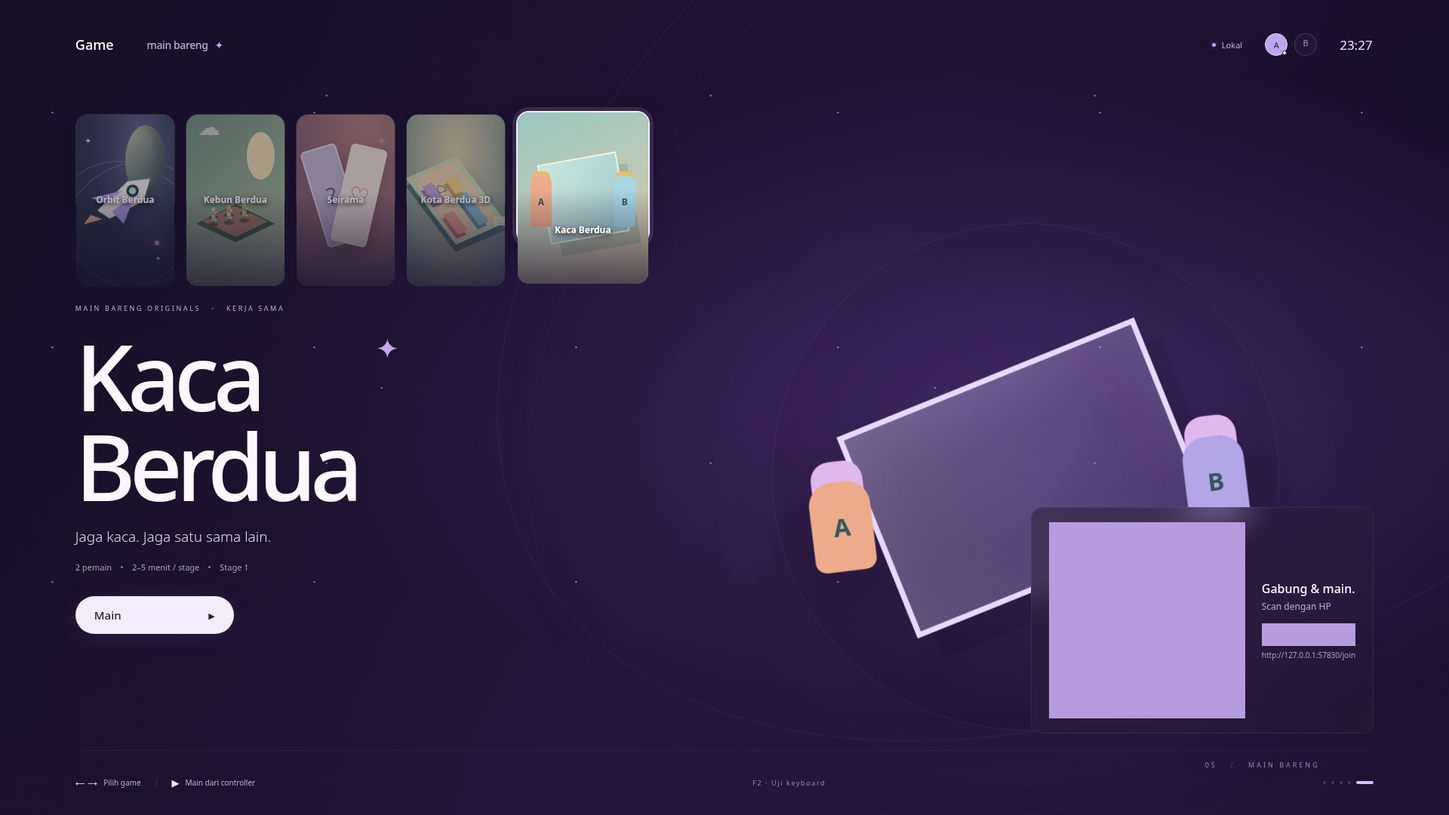
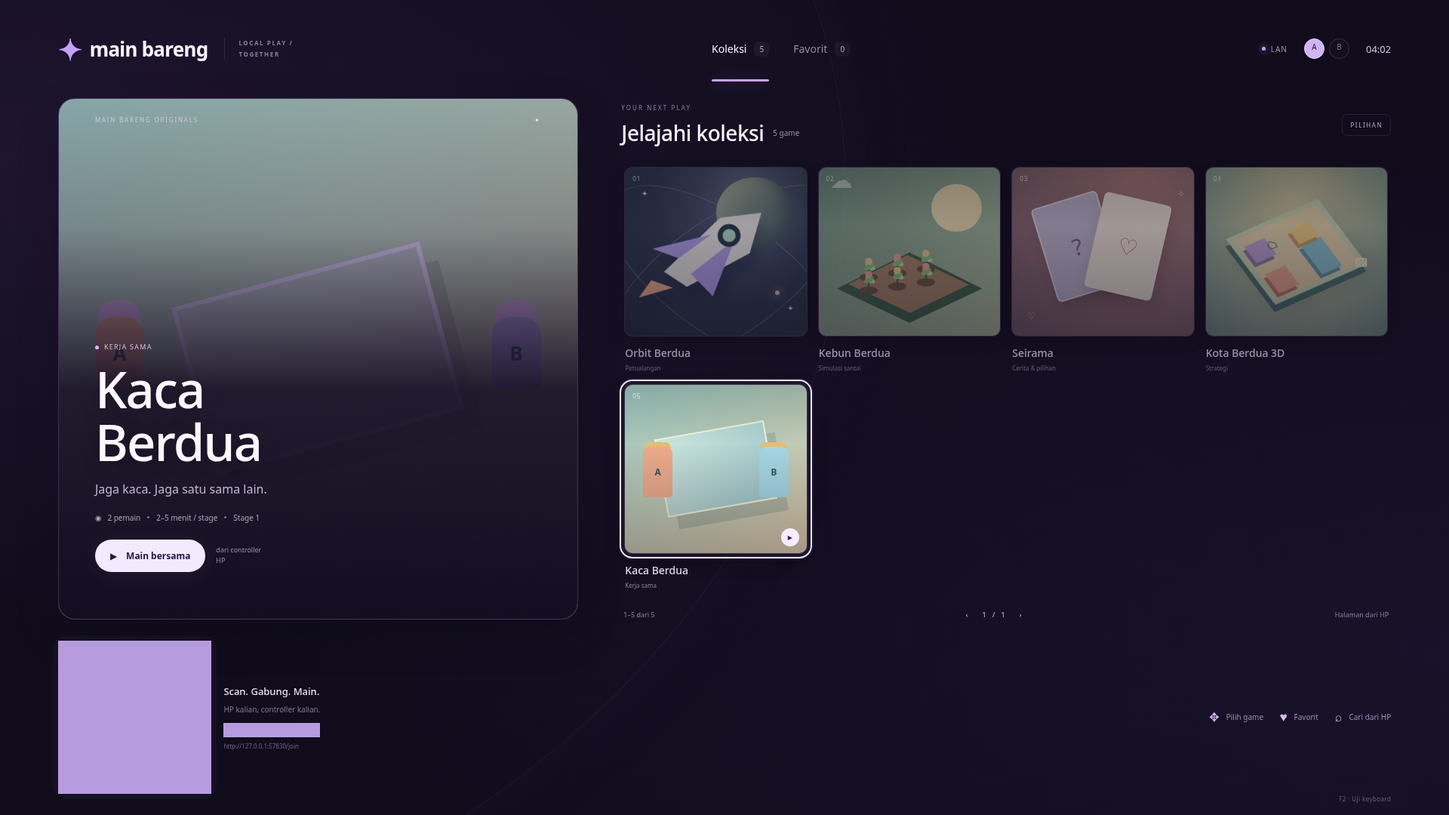
fix(architecture): sempurnakan dashboard dan kontrol D-pad

diff --git a/src/dashboard/style.css b/src/dashboard/style.css
@@ -4,7 +4,7 @@ body.catalog-screen{background:#0e0a19;color:#f7f4ff;overflow:hidden}
 .home-top{display:flex;align-items:center;justify-content:space-between;gap:28px}.home-wordmark{display:flex;align-items:center;gap:10px;font-weight:650;font-size:clamp(17px,1.6vw,26px);letter-spacing:-.7px;white-space:nowrap}.home-symbol{color:#c4a2ff;font-size:1.5em}.home-edition{border-left:1px solid #ffffff1c;padding-left:18px;margin-left:12px;font-size:8px;letter-spacing:1.6px;color:#897e9d;max-width:100px;line-height:1.8;white-space:normal}.home-tabs{display:flex;gap:32px;height:100%;align-items:center}.home-tabs>span{position:relative;color:#94899f;font-size:14px;display:flex;align-items:center;gap:10px;height:100%}.home-tabs>span.active{color:#f6f0ff}.home-tabs>span.active:after{content:'';position:absolute;height:3px;border-radius:5px;background:#c8a1ff;bottom:17%;left:0;right:0;box-shadow:0 0 18px #b38be850}.home-tabs small{font-size:10px;background:#ffffff0b;padding:3px 7px;border-radius:6px;color:#b9a6cc}.home-status{display:flex;align-items:center;gap:22px}.local-status{display:flex;align-items:center;gap:7px;color:#a296b2;font-size:10px;letter-spacing:1px}.local-status i{height:5px;width:5px;background:#c3a0f1;border-radius:50%;box-shadow:0 0 10px #b88bf9}.home-players{display:flex;gap:6px}.home-avatar{width:27px;height:27px;display:grid;place-items:center;border:1px solid #e2caff2a;border-radius:50%;color:#81708e;font-size:10px;background:#ffffff04}.home-avatar.online{color:#271735;background:#d1b4f5;border-color:#e9d8ff}.home-time{font-size:13px;color:#d0c3df;font-variant-numeric:tabular-nums}
 .home-content{display:grid;grid-template-columns:39% minmax(0,1fr);gap:3vw;min-height:0}.home-feature{position:relative;isolation:isolate;overflow:hidden;border:1px solid #dac2ff20;border-radius:22px;background:linear-gradient(150deg,#443054a8,#261a36);box-shadow:0 22px 60px #0002}.feature-art{position:absolute;inset:0;z-index:-1;overflow:hidden}.feature-art>.art{position:absolute;width:100%;height:100%;overflow:hidden;border-radius:0;opacity:.8}.feature-art:after{content:'';position:absolute;inset:0;background:linear-gradient(180deg,#0f091c00 0%,#170e2b35 25%,#140d22e8 56%,#140d22 100%)}.feature-halo{position:absolute;inset:0;background:radial-gradient(ellipse,var(--home-glow),transparent 70%);opacity:.18}.feature-copy{position:absolute;left:7%;right:6%;bottom:9%;z-index:2}.feature-genre{display:flex;align-items:center;gap:7px;color:#d1bbe5;font-size:9px;letter-spacing:1.25px;text-transform:uppercase;margin:0 0 12px}.feature-dot{height:5px;width:5px;background:#d8b6ff;border-radius:50%}.feature-favorite{font-size:8px;color:#e0b9eb;margin-left:auto;letter-spacing:1px}.feature-copy h1{font-size:clamp(30px,3.6vw,67px);font-weight:550;letter-spacing:-1.8px;line-height:1.05;margin:0 0 14px;color:#fcf8ff;text-shadow:0 2px 24px #0d061a44}.feature-line{font-size:clamp(11px,.95vw,16px);color:#c3b3d1;line-height:1.7;margin:0 0 17px;max-width:30em}.feature-meta{display:flex;align-items:center;gap:9px;flex-wrap:wrap;color:#b1a0c1;font-size:10px}.feature-meta i{height:3px;width:3px;background:#80708e;border-radius:50%}.feature-actions{display:flex;align-items:center;gap:14px;margin-top:22px}.home-play{display:flex;align-items:center;gap:12px;padding:13px 20px;border-radius:30px;background:#f3eaff;color:#28173e;font-size:12px;box-shadow:0 4px 30px #d9a8ff10}.home-play>span{font-weight:650}.feature-action-note{font-size:9px;color:#9f8cb3;line-height:1.6;max-width:70px}.feature-edition{position:absolute;left:7%;right:7%;top:22px;display:flex;justify-content:space-between;font-size:8px;letter-spacing:1.8px;color:#ede1fba0}.feature-edition i{font-style:normal;color:#f2e2ff}.feature-empty{height:100%;padding:10%;display:flex;flex-direction:column;justify-content:center}.feature-empty>span{font-size:70px;color:#b292d1;margin-bottom:30px}.feature-empty h1{font-size:36px;line-height:1.2;letter-spacing:-1px}.feature-empty p{color:#ab97bc;line-height:1.8;font-size:13px}
 .home-library{display:flex;flex-direction:column;min-width:0;min-height:0;padding-top:6px}.library-heading{display:flex;justify-content:space-between;align-items:center;padding-bottom:22px;gap:20px}.library-eyebrow{color:#8d7a9e;font-size:8px;letter-spacing:2.1px;margin:0 0 8px}.library-heading h2{font-size:clamp(18px,1.7vw,28px);font-weight:500;letter-spacing:-.5px;display:flex;align-items:center;gap:12px;margin:0}.library-heading h2>span{font-size:10px;color:#9d8bad;letter-spacing:0;font-weight:400}.library-sort{font-size:8px;letter-spacing:1.6px;color:#baa5ce;border:1px solid #b197cd25;border-radius:7px;padding:8px 10px}.home-game-row{display:grid;grid-template-columns:repeat(4,minmax(0,1fr));grid-template-rows:repeat(2,minmax(0,1fr));gap:19px 14px;min-height:0;flex:1;padding:4px}.console-tile{position:relative;min-width:0;min-height:0;display:flex;flex-direction:column;border-radius:12px;background:transparent;border:0;transition:opacity .2s,transform .2s;opacity:.65;overflow:visible}.console-tile.selected{opacity:1;transform:translateY(-3px)}.tile-cover{position:relative;isolation:isolate;overflow:hidden;border-radius:11px;min-height:0;flex:1;background:#30233e;border:1px solid #ffffff12;box-shadow:0 8px 20px #0003}.tile-cover:after{content:'';position:absolute;inset:0;background:linear-gradient(180deg,#0002,transparent 35%,#0c061a44);pointer-events:none}.tile-cover>.art{position:absolute;inset:0;width:100%;height:100%;overflow:hidden}.console-tile.selected .tile-cover{outline:2px solid #f2e3ff;outline-offset:4px;box-shadow:0 0 0 8px #a77adf16,0 8px 25px #0005}.tile-number{position:absolute;z-index:2;left:10px;top:9px;font-size:8px;letter-spacing:1px;color:#ffffffa0}.tile-favorite{position:absolute;z-index:2;right:9px;top:8px;color:#f4c8eb;font-size:13px;filter:drop-shadow(0 1px 5px #0005)}.tile-play{position:absolute;z-index:2;right:10px;bottom:9px;border-radius:50%;width:24px;height:24px;display:grid;place-items:center;background:#f8edff;color:#382448;font-size:8px;opacity:0}.selected .tile-play{opacity:1}.tile-caption{padding:12px 1px 0;flex:none}.tile-name{display:block;font-size:clamp(10px,.85vw,14px);font-weight:550;white-space:nowrap;overflow:hidden;text-overflow:ellipsis;color:#e5dbee}.tile-genre{display:block;font-size:8px;margin-top:5px;white-space:nowrap;overflow:hidden;text-overflow:ellipsis;color:#9581a4}.library-pagination{display:flex;align-items:center;justify-content:space-between;color:#8f7e9f;font-size:9px;padding:20px 3px 0}.library-page-number{font-variant-numeric:tabular-nums;color:#dbc7ee;letter-spacing:3px}.library-query{display:flex;align-items:center;gap:8px;background:#b894e610;border:1px solid #b894e61c;border-radius:8px;color:#d5b5f0;font-size:11px;margin-bottom:14px;padding:8px 12px;min-width:0}.library-query>span{white-space:nowrap;overflow:hidden;text-overflow:ellipsis;max-width:60%}.library-query small{margin-left:auto;color:#9581a7;font-size:8px}.library-empty{grid-column:1/-1;grid-row:1/-1;display:flex;flex-direction:column;align-items:center;justify-content:center;gap:12px;border:1px dashed #b596d125;border-radius:14px;color:#baa3cd;text-align:center;padding:20px}.library-empty>span{font-size:50px;color:#a88ac4}.library-empty h3{font-size:20px;font-weight:450;margin:0}.library-empty p{font-size:11px;color:#867195;margin:0}
-.home-bottom{position:relative;display:flex;align-items:center;justify-content:space-between;gap:25px;min-height:0}.home-pairing{display:flex;align-items:center;gap:16px;min-width:0}.home-pairing .qr-frame{position:relative;align-self:center;background:#fff;padding:9px;border:1px solid #e9dcff24;border-radius:12px;box-shadow:0 0 0 7px #ab7bdf0b;flex:none;z-index:3}.home-pairing .qr-frame img{display:block;width:clamp(160px,17svh,205px);height:auto}.pairing-copy{max-width:220px}.home-pairing strong{font-size:13px;font-weight:550;color:#e9dff3;display:block}.home-pairing p{font-size:10px;color:#897497;margin:7px 0}.pairing-code{display:block;font-size:14px;letter-spacing:4px;color:#c7a7e3;margin-top:10px;font-variant-numeric:tabular-nums}.home-pairing small{display:block;font-size:8px;color:#776086;margin-top:6px;overflow-wrap:anywhere}.pairing-ready{display:grid;place-items:center;width:43px;height:43px;color:#c8a5ed;border:1px solid #b08ddf25;background:#b08ddf08;border-radius:14px;font-size:20px}.home-control-hints{display:flex;gap:22px;color:#9d88b0;font-size:10px;margin-left:auto}.home-control-hints>span{display:flex;gap:9px;align-items:center;white-space:nowrap}.home-control-hints b{font-weight:400;color:#d3bae8;font-size:16px}.developer-hint{position:absolute;right:0;bottom:16px;font-size:8px;color:#6f5b80;letter-spacing:.4px}
+.console-home .home-bottom{margin:0;padding:0;border:0;position:relative;display:flex;align-items:center;justify-content:space-between;gap:25px;min-height:0}.home-pairing{display:flex;align-items:center;gap:16px;min-width:0}.home-pairing .qr-frame{margin:0;position:relative;align-self:center;background:#fff;padding:9px;border:1px solid #e9dcff24;border-radius:12px;box-shadow:0 0 0 7px #ab7bdf0b;flex:none;z-index:3}.home-pairing .qr-frame img{display:block;width:clamp(160px,17svh,205px);height:auto}.pairing-copy{max-width:220px}.home-pairing strong{font-size:13px;font-weight:550;color:#e9dff3;display:block}.home-pairing p{font-size:10px;color:#897497;margin:7px 0}.pairing-code{display:block;font-size:14px;letter-spacing:4px;color:#c7a7e3;margin-top:10px;font-variant-numeric:tabular-nums}.home-pairing small{display:block;font-size:8px;color:#776086;margin-top:6px;overflow-wrap:anywhere}.pairing-ready{display:grid;place-items:center;width:43px;height:43px;color:#c8a5ed;border:1px solid #b08ddf25;background:#b08ddf08;border-radius:14px;font-size:20px}.home-control-hints{display:flex;gap:22px;color:#9d88b0;font-size:10px;margin-left:auto}.home-control-hints>span{display:flex;gap:9px;align-items:center;white-space:nowrap}.home-control-hints b{font-weight:400;color:#d3bae8;font-size:16px}.developer-hint{position:absolute;right:0;bottom:16px;font-size:8px;color:#6f5b80;letter-spacing:.4px}
 .library-controller{background:radial-gradient(ellipse at 0% 50%,#55377955,transparent 60%),#100c1b}.library-controller .touch-utilities{justify-content:flex-start;gap:10px}.library-controller .touch-utilities>button:last-child{margin-left:auto}.library-controller .touch-layout{top:115px;gap:30px}.library-controller .analog-zone{position:relative;flex-direction:column;gap:6px}.library-dpad{width:min(49vh,37vw,290px);height:min(49vh,37vw,290px);display:grid;grid-template-columns:repeat(3,1fr);grid-template-rows:repeat(3,1fr);gap:4px;flex:none}.library-dpad .touch-action{padding:0;min-height:0;border-radius:15px;font-size:30px;color:#e7d8f7;background:linear-gradient(145deg,#38284b,#231a32);border:1px solid #bc91e638;box-shadow:0 3px 0 #080610}.library-dpad .touch-action.held-action{background:#7a52ac;box-shadow:0 0 22px #bd8eff30}.direction-up{grid-column:2;grid-row:1}.direction-left{grid-column:1;grid-row:2}.direction-right{grid-column:3;grid-row:2}.direction-down{grid-column:2;grid-row:3}.dpad-center{grid-column:2;grid-row:2;display:grid;place-items:center;color:#a882d7;font-size:20px;background:#21172d;border-radius:50%;margin:9px}.library-current{font-size:10px;color:#a48bb8;white-space:nowrap;overflow:hidden;text-overflow:ellipsis;max-width:100%;height:15px;flex:none}.library-controller .library-actions{grid-template-columns:repeat(3,minmax(0,1fr));grid-template-rows:repeat(2,minmax(0,1fr));height:100%;max-height:270px;gap:12px;max-width:500px}.library-actions .touch-action{border-radius:18px;border-color:#9874ba35;background:linear-gradient(145deg,#322341,#21182d);color:#d5c1e5}.library-actions .touch-action.accent{background:linear-gradient(140deg,#e5cdff,#bd9be8);color:#332047;box-shadow:0 4px 0 #654581}.library-actions [aria-pressed=true]{border-color:#f0bddc;color:#ffcfed}.library-search-form{position:absolute;top:61px;left:22px;right:22px;height:38px;display:flex;gap:8px}.library-search-form input{width:100%;min-width:0;border:1px solid #b28cd331;background:#21162e;border-radius:10px;padding:8px 13px;color:#f0e4ff;font:12px system-ui;outline:none;touch-action:manipulation;user-select:text}.library-search-form input:focus{border-color:#d1adf7}.library-search-form button{width:48px;flex:none;border:1px solid #b28cd331;background:#32213f;color:#e1c5fc;border-radius:10px;font-size:22px;touch-action:manipulation}
 @media(max-width:1400px){.home-edition{display:none}.home-content{gap:2.5vw;grid-template-columns:38% minmax(0,1fr)}.home-control-hints{gap:15px}.feature-copy h1{font-size:3.5vw}.library-heading{padding-bottom:17px}.home-game-row{gap:16px 12px}.home-status{gap:15px}}
 @media(max-height:760px){.console-home{grid-template-rows:11svh minmax(0,1fr) 26svh}.feature-line{margin-bottom:12px}.feature-actions{margin-top:16px}.feature-copy h1{margin-bottom:10px}.feature-copy{bottom:8%}.home-game-row{gap:14px 12px}.tile-caption{padding-top:9px}.library-pagination{padding-top:16px}.home-pairing .qr-frame img{width:160px}.home-pairing .qr-frame{padding:7px}.home-tabs>span.active:after{bottom:10%}}

diff --git a/src/platform/app.ts b/src/platform/app.ts
@@ -63,7 +63,7 @@ function analogInput(x:number,y:number){
 }
 function render(){
  if(!state)return;
- const signature=JSON.stringify([role,state.phase,state.phase==='catalog'&&!operator?'catalog':state.selected,state.mode,state.level,state.players,state.pending,state.pairing?.open,state.pairing?.code,state.library,state.countdown,state.game?gameClient(state.game.id).renderKey?.(state,privateState,{draftAnswer}):null,draftAnswer,diag]);
+ const signature=JSON.stringify([role,state.phase,state.phase==='catalog'&&!operator?'catalog':state.selected,state.mode,state.level,state.players,state.pending,state.pairing?.open,state.pairing?.code,operator?state.library:null,state.countdown,state.game?gameClient(state.game.id).renderKey?.(state,privateState,{draftAnswer}):null,draftAnswer,diag]);
  if(signature!==key){axisCancel();analogCancel();menuRelease();key=signature;neutral();document.body.classList.toggle('controller-only',!operator);document.body.classList.toggle('catalog-screen',state.phase==='catalog');const retained=operator?gameCanvas:null;app.innerHTML=operator?(state.phase==='catalog'?catalogView(state,art):consoleGame()):controller();gameCanvas=document.querySelector('#game');if(retained&&gameCanvas){gameCanvas.replaceWith(retained);gameCanvas=retained;}else if(retained){release3D();}bindTouch();if(diag)showSettings(true);}
 
  const pairing=document.querySelector<HTMLElement>('#game-pairing');
@@ -85,7 +85,7 @@ function bindTouch(){
   pad.onpointerdown=e=>{if(pointer!==null||pad.dataset.disabled==='true')return;pointer=e.pointerId;pad.setPointerCapture(e.pointerId);move(e);if(pointer!==null)repeat=setInterval(()=>analogInput(stick.x,stick.y),60);};
   pad.onpointermove=move;pad.onpointerup=release;pad.onpointercancel=release;pad.onlostpointercapture=release;
  }
- const search=document.querySelector<HTMLFormElement>('.library-search-form');if(search)search.onsubmit=e=>{e.preventDefault();send('library.update',{command:'search',value:(search.elements.namedItem('query') as HTMLInputElement).value.slice(0,80)});(search.elements.namedItem('query') as HTMLInputElement).blur();};
+ const search=document.querySelector<HTMLFormElement>('.library-search-form');if(search){const input=search.elements.namedItem('query') as HTMLInputElement;input.oninput=()=>{input.dataset.dirty='true';};search.onsubmit=e=>{e.preventDefault();delete input.dataset.dirty;send('library.update',{command:'search',value:(search.elements.namedItem('query') as HTMLInputElement).value.slice(0,80)});(search.elements.namedItem('query') as HTMLInputElement).blur();};}
  let directionTimer:any=null,directionPointer:number|null=null;const releaseDirection=()=>{clearTimeout(directionTimer);directionPointer=null;document.querySelectorAll('.library-dpad .held-action').forEach(b=>b.classList.remove('held-action'));};
  const oldRelease=analogCancel;analogCancel=menuRelease=()=>{oldRelease();releaseDirection();};
  document.querySelectorAll<HTMLButtonElement>('[data-do=library-direction]').forEach(button=>{button.onpointerdown=e=>{if(button.disabled||!connected)return;e.preventDefault();e.stopPropagation();releaseDirection();directionPointer=e.pointerId;button.setPointerCapture(e.pointerId);button.classList.add('held-action');handleControl(button);const repeat=()=>{if(directionPointer===e.pointerId&&state?.phase==='catalog'&&!document.hidden){handleControl(button);directionTimer=setTimeout(repeat,170);}};directionTimer=setTimeout(repeat,380);};button.onpointerup=button.onpointercancel=button.onlostpointercapture=releaseDirection;button.onclick=e=>{e.preventDefault();e.stopPropagation();if(e.detail===0)handleControl(button);};});
@@ -117,6 +117,7 @@ async function showJoin(){
  document.querySelector('#join-form')!.addEventListener('submit',async e=>{e.preventDefault();const form=e.target as HTMLFormElement,button=form.querySelector('button')!;button.disabled=true;try{const data=new FormData(form),response=await fetch('/api/join',{method:'POST',headers:{'Content-Type':'application/json'},body:JSON.stringify({name:data.get('name'),recoveryToken,...(invite?{invite}:{code:data.get('code')})})});const p=await response.json();if(!response.ok)throw Error(p.message||'Tidak dapat bergabung.');credential=p.token;sessionStore.setItem('mb-token',credential);localStore.setItem('mb-resume',credential);connect();}catch(e:any){toast(e.message);button.disabled=false;}});
 }
 function showSettings(diagnostics=false){
+ menuRelease();
  document.body.classList.add('controls-modal');
  document.querySelector('#modal')?.remove();const modal=document.createElement('div');modal.id='modal';modal.className='modal';modal.innerHTML=`<section class="settings-panel"><div class="section-title"><h2>${diagnostics?'Jaringan & bantuan':'Buat senyaman kalian'}</h2><button data-do="close-settings" class="icon-button" aria-label="Tutup">×</button></div>${diagnostics?`<p>Gunakan satu Wi-Fi pribadi yang sama. Guest Wi-Fi bisa memblokir koneksi antarperangkat.</p><div class="info-box"><strong>${esc(state?.network?.base||location.origin)}</strong><p>RTT aplikasi: <span id="diag-rtt">—</span><br>Render: <span id="diag-fps">—</span><br>Koneksi: <span id="diag-connection">—</span></p></div><p>Jika HP tidak terhubung: periksa alamat IP, izin jaringan lokal browser, client isolation router dan firewall port aplikasi. Aplikasi tidak mengubah firewall atau Tailscale.</p><p class="muted">RTT adalah perjalanan pulang-pergi pesan, bukan ukuran sentuh-ke-gambar.</p>`:`<button class="setting-row" data-do="mute">Suara sintetis lokal <b>${muted?'Mati':'Aktif'}</b></button><button class="setting-row" data-do="motion">Kurangi animasi <b>${reduced?'Aktif':'Mati'}</b></button><button class="setting-row" data-do="left">Kontrol kidal <b>${leftHanded?'Aktif':'Mati'}</b></button><button class="setting-row" data-do="large">Tombol lebih besar <b>${large?'Aktif':'Mati'}</b></button><p class="muted">Preferensi tersimpan di browser perangkat ini.</p>`}${state?.you?.host?'<button class="danger full" data-do="reset">Akhiri ruang & hapus sesi</button>':''}${!operator?'<button class="subtle full" data-do="logout">Keluar controller</button>':''}</section>`;document.body.append(modal);
 }

diff --git a/src/dashboard/controller.ts b/src/dashboard/controller.ts
@@ -7,6 +7,10 @@ export function catalogController(state:any,prefs:{leftHanded:boolean;large:bool
 export function syncCatalogController(state:any,connected:boolean){
  const library=state.library||emptyLibrary(),page=libraryPage(state.catalog,library,state.selected),selected=page.games.find(g=>g.id===state.selected),favorite=library.favorites.includes(state.selected);
  const caption=document.querySelector('#library-current');if(caption)caption.textContent=selected?`${selected.title} · ${page.page+1}/${page.pages}`:'Koleksi kosong';
+ const update=(action:string,label:string,icon:string)=>{const button=document.querySelector<HTMLButtonElement>(`[data-do=${action}]`);if(button){button.setAttribute('aria-label',label);const text=button.querySelector('small'),symbol=button.querySelector('span');if(text)text.textContent=label;if(symbol)symbol.textContent=icon;}};
+ update('library-filter',library.filter==='favorites'?'Semua game':'Koleksi favorit',library.filter==='favorites'?'▦':'♥');update('library-sort',library.sort==='title'?'Urutan pilihan':'Urut A–Z','≡');
+ const input=document.querySelector<HTMLInputElement>('.library-search-form input');if(input&&document.activeElement!==input&&input.dataset.dirty!=='true')input.value=library.query;
+ document.querySelectorAll<HTMLButtonElement>('[data-do=library-previous],[data-do=library-next]').forEach(b=>b.disabled=!connected||page.pages<2);
  const star=document.querySelector<HTMLButtonElement>('[data-do=library-favorite]');if(star){star.setAttribute('aria-pressed',String(favorite));star.setAttribute('aria-label',favorite?'Hapus favorit':'Tambah favorit');const icon=star.querySelector('span');if(icon)icon.textContent=favorite?'♥':'♡';}
  document.querySelectorAll<HTMLButtonElement>('.library-controller .direction-up,.library-controller .direction-down,.library-controller .direction-left,.library-controller .direction-right,.library-controller [data-do=remote-confirm],.library-controller [data-do=library-favorite]').forEach(b=>b.disabled=!connected||!page.games.length);
 }

diff --git a/docs/09-roadmap.md b/docs/09-roadmap.md
@@ -121,3 +121,5 @@ Lanjutkan penerimaan CP-03 dengan dua HP fisik dari paket offline. Uji kontrol d
 - Verifikasi akhir modularisasi: **60 tes (enam tooling)**, TypeScript/build, batas impor/CSS/scope dan 33 dokumen lulus; game sintetis baru terdaftar/build tanpa mengedit host/dashboard. Regresi browser dashboard/QR, empat game, Kota 24 giliran serta keyboard/controller Kaca lulus. Paket node-required berhasil dibuat. Proses lokal Soforia dimuat ulang pada 3210/3211; health/app/chunk HTTP 200. Refresh dan scan QR baru. Proteksi branch remote dan acceptance dua HP fisik belum dinyatakan aktif/lulus.
 
 - 2026-11-15 (perbaikan tes GitHub CI): log job Boundaries and tests menunjukkan model crate mengembalikan 404 karena tes membaca `dist/public/` sebelum build. Tes diarahkan ke aset `public/` yang dilacak Git; status/MIME/header GLB, traversal, pairing, resume dan privasi tetap diperiksa. Salinan Git bersih tanpa dist mereproduksi kegagalan awal (7/8 tes platform lulus); perbaikan meluluskan seluruh **60 tes** tanpa dist pada Node 24 dan Node 22.23.5, serta check, docs dan build dengan urutan workflow. [Bukti dan batas](../src/platform/evidence/ci-test-report.json). Workflow/batas antar-game tidak dilonggarkan. Titik lanjut: push perbaikan dan verifikasi run GitHub baru; jangan menganggap hasil lokal sebagai run CI remote yang sudah hijau. Tidak mengubah game, runtime atau deployment.
+
+- 2026-11-16 (pustaka dashboard): hero/koleksi ungu, favorit persisten di laptop, pencarian judul/genre, urutan pilihan/A–Z dan grid empat kolom/delapan kartu per halaman. Dua controller memakai D-pad di katalog; analog tetap di dalam game. Snapshot tidak menghapus pencarian yang sedang diketik. 65 tes/check/build dan verifikasi browser menjadi checkpoint; [bukti fitur/fixture 2.500 metadata](../src/dashboard/evidence/library-browser-report.json). Fixture bukan pemasangan 2.500 game, uji FPS atau dua HP fisik. Titik lanjut: playtest jarak TV, keyboard virtual dan scan QR pada HP nyata. Program game tidak berubah; adaptasi tool Kaca hanya mengganti navigasi menu pengujian menjadi D-pad.

diff --git a/SPEC.md b/SPEC.md
@@ -135,3 +135,7 @@ Hasil playtest pengguna membatalkan anggapan bahwa kelulusan rute lama membuktik
 Atas permintaan pengguna, dashboard, platform LAN dan setiap game dipisahkan dalam modul dengan kepemilikan path eksplisit. `src/games/<id>/manifest.json` menjadi deklarasi katalog; generator menemukan modul tanpa daftar game manual. Server, console laptop, controller HP, HUD, CSS, tes dan status game wajib berada dalam folder game itu. Scope dashboard tidak boleh mengedit game; scope game tidak boleh mengedit game lain, dashboard atau platform. Perubahan API bersama/migrasi memerlukan scope terpisah yang diotorisasi. Kontrak dan guard dijelaskan pada [laporan arsitektur](docs/23-arsitektur-modul-dan-kolaborasi.md).
 
 Pemisahan source dan bundle mempertahankan satu proses server otoritatif, dua pemain serta operasi LAN offline. Tidak menambah cloud/matchmaking atau isolasi proses. README multibahasa dan adapter AI merupakan dokumentasi kolaborasi; penegakan dilakukan pemeriksaan batas impor/CSS/diff, tes dan review. Tidak menjanjikan kepatuhan universal AI. Proteksi merge GitHub harus diaktifkan pemilik; konfigurasi lokal bukan bukti bahwa proteksi remote sudah aktif.
+
+## Pustaka besar, favorit dan D-pad — 16 November 2026
+
+Atas permintaan pengguna, dashboard memakai delapan kartu per halaman dengan empat kolom, pencarian judul/genre, urutan pilihan/A–Z dan tab favorit. Kedua pemain berbagi pilihan, filter dan pencarian melalui server. Favorit disimpan sebagai ID game pada laptop (`.runtime/library.json`), tanpa credential/jawaban. Navigasi katalog pada HP memakai empat tombol arah dan lompat halaman, menggantikan analog katalog pada FR-03/interaksi sebelumnya. Analog karakter serta seluruh aturan game tetap milik masing-masing game. Layar laptop tetap display-only; tindakan berasal dari controller. Uji skala metadata/simulasi browser tidak menggantikan acceptance HP fisik/performa.

diff --git a/src/dashboard/STATUS.md b/src/dashboard/STATUS.md
@@ -1,3 +1,7 @@
 # Status dashboard
 
-Layout konsol ungu dan QR besar dipertahankan setelah pemisahan modul. Registry/metadata diinjeksi; tidak ada daftar game manual. Verifikasi migrasi dan batas ada di docs/23-arsitektur-modul-dan-kolaborasi.md.
+16 November 2026 — pustaka konsol ungu: hero game terpilih, grid empat kolom/delapan kartu per halaman, pencarian judul/genre, urutan pilihan/A–Z dan koleksi favorit. Hanya halaman aktif dirender; fixture 2.500 metadata game tidak menambah ribuan node/artwork sekaligus. Kedua controller memakai empat tombol arah, halaman sebelumnya/berikutnya, Main, favorit, filter dan pencarian. Analog tetap ada di dalam game.
+
+Favorit bersama disimpan laptop pada `.runtime/library.json`; berkas hanya memuat versi schema dan ID game. Filter/query/sortir merupakan state sesi bersama. Teks pencarian yang sedang diketik tidak ditimpa snapshot controller lain. Penyimpanan gagal memberi pesan dan mempertahankan favorit dalam sesi. Reset identitas sesi tidak menghapus preferensi favorit laptop.
+
+Verifikasi: `npm test` 65 tes, check/build, `node --import tsx scripts/library-browser-check.mjs`, menu dan dua controller. Bukti ada di evidence/library-browser-report.json dan PNG di folder ini. Fixture 2.500 game hanya bukti presentasi/pagination, bukan 2.500 game terpasang. Uji browser bukan dua HP fisik atau bukti FPS. Titik lanjut: uji keterbacaan TV/jarak duduk serta keyboard virtual Android/iOS fisik.

diff --git a/src/dashboard/README.md b/src/dashboard/README.md
@@ -3,3 +3,5 @@
 Scope `dashboard`. `view.ts` menghasilkan menu dari snapshot katalog dan fungsi artwork yang diinjeksi host. `style.css` hanya layout menu. Untuk memperbaiki kartu/QR/koleksi, mulai dari dua file ini; jangan membaca atau mengedit aturan game bila tidak diperlukan. Data judul/genre/art game bukan daftar di sini, melainkan manifest/art modul itu.
 
 Verifikasi: `npm run check`, `npm run build`, `node scripts/menu-browser-check.mjs`, `npm run check:scope -- --working`. Status lokal ditulis di `STATUS.md`. Jika kebutuhan ternyata pairing/protokol, itu scope platform terpisah, bukan alasan mengubah server pada PR dashboard.
+
+Pustaka aktif memakai `controller.ts` untuk UI menu HP dan `tests/library.test.ts` untuk halaman/filter/D-pad. Pemilahan, pencarian dan navigasi murni ada di kontrak helper `src/shared/catalog-library.ts` (read-only untuk task dashboard biasa). Persistensi favorit serta transport merupakan platform; jangan menaruh akses filesystem di dashboard. Halaman berisi maksimal delapan kartu. Jangan mengembalikan daftar game hardcode atau merender seluruh cover katalog besar.

diff --git a/README.md b/README.md
@@ -18,7 +18,7 @@ npm run build
 ./play.sh
 ```
 
-Launcher mencetak URL layar operator lokal dan controller LAN serta membuka layar konsol. Scan QR dari masing-masing HP; alamat IP/port mengikuti keluaran launcher, bukan URL localhost pada HP. Kedua pemain dapat memilih game di dashboard dan menekan Main. Jeda hanya melalui tindakan pemain, bukan otomatis ketika HP terputus.
+Launcher mencetak URL layar operator lokal dan controller LAN serta membuka layar konsol. Scan QR dari masing-masing HP; alamat IP/port mengikuti keluaran launcher, bukan URL localhost pada HP. Kedua pemain memakai tombol arah pada controller untuk memilih game, lalu menekan Main. Dashboard menyediakan pencarian, favorit bersama yang tersimpan di laptop, urutan A–Z, dan delapan game per halaman; analog tetap tersedia di dalam game. Jeda hanya melalui tindakan pemain, bukan otomatis ketika HP terputus.
 
 Jika menjalankan server tanpa kiosk:
 

diff --git a/docs/i18n/README.ja.md b/docs/i18n/README.ja.md
@@ -2,6 +2,8 @@
 
 [Indonesia](../../README.md) · [English](README.en.md) · [Español](README.es.md) · [Português](README.pt.md) · **日本語** · [简体中文](README.zh-CN.md)
 
+ライブラリでは十字キー、検索、ノートPCに保存する共有お気に入り、名前順、1ページ8作品の表示を利用できます。ゲーム内のキャラクター操作には引き続きアナログスティックを使います。
+
 2人で遊ぶためのローカルゲームコンソールです。ノートPCが共通画面と権威サーバーを担当し、同じLANにつながる2台のスマートフォンのブラウザーをコントローラーとして使います。ビルド後のプレイにクラウドアカウントやインターネットは不要です。
 
 ## 起動

diff --git a/docs/i18n/README.es.md b/docs/i18n/README.es.md
@@ -2,6 +2,8 @@
 
 [Indonesia](../../README.md) · [English](README.en.md) · **Español** · [Português](README.pt.md) · [日本語](README.ja.md) · [简体中文](README.zh-CN.md)
 
+La biblioteca usa una cruceta de cuatro direcciones, búsqueda, favoritos compartidos guardados en el portátil, orden alfabético y ocho juegos por página. El control analógico sigue disponible dentro de los juegos.
+
 Una consola local para dos personas. El portátil ejecuta el servidor autoritativo y la pantalla compartida; dos navegadores de móvil funcionan como mandos en la misma LAN. Después de compilar, no se necesita internet ni una cuenta en la nube.
 
 ## Empezar

diff --git a/docs/i18n/README.pt.md b/docs/i18n/README.pt.md
@@ -2,6 +2,8 @@
 
 [Indonesia](../../README.md) · [English](README.en.md) · [Español](README.es.md) · **Português** · [日本語](README.ja.md) · [简体中文](README.zh-CN.md)
 
+A biblioteca usa direcional de quatro botões, busca, favoritos compartilhados salvos no notebook, ordem alfabética e oito jogos por página. O analógico continua disponível dentro dos jogos.
+
 Um console local para duas pessoas. O notebook executa o servidor autoritativo e a tela compartilhada; dois navegadores de celular viram controles na mesma LAN. Depois da compilação, o jogo não precisa de internet nem de conta na nuvem.
 
 ## Executar

diff --git a/docs/i18n/README.en.md b/docs/i18n/README.en.md
@@ -2,6 +2,8 @@
 
 [Indonesia](../../README.md) · **English** · [Español](README.es.md) · [Português](README.pt.md) · [日本語](README.ja.md) · [简体中文](README.zh-CN.md)
 
+The library uses a four-way D-pad, search, shared favorites saved on the laptop, alphabetical sorting and eight games per page. Character controls inside games still use the analog stick.
+
 A local console for two people: a laptop runs the authoritative server and shared display; two phone browsers become controllers on the same LAN. Gameplay needs no cloud account or internet after the application has been built.
 
 ## Run locally
